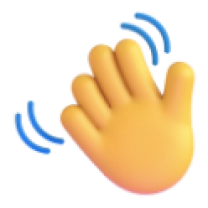
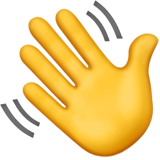
Add Hero section and update assets/styles
Introduced a new Hero component with associated CSS for the landing page. Updated image assets by replacing arrow.png with arrow_icon.png and modifying hand_icon.png. Enhanced Navbar link styles for better UI consistency. Integrated the Hero component into the Shop page.

diff --git a/Watch_Store/src/components/Navbaar/Navbar.jsx b/Watch_Store/src/components/Navbaar/Navbar.jsx
@@ -16,10 +16,13 @@ const Navbar = () => {
         </div>
 
         <ul className='nav-menu'>
-            <li onClick={() =>{setMenu("home")}}> <Link to="/">Home</Link>{menu==="home" ? <hr />:<></>}</li>
-            <li onClick={() =>{setMenu("mens")}}> <Link to="/mens">Men</Link> {menu==="mens" ? <hr />:<></>}</li>
-            <li onClick={() =>{setMenu("womens")}}><Link to="/women"> Women </Link>{menu==="womens" ? <hr />:<></>}</li>
-            <li onClick={() =>{setMenu("kids")}}> <Link to="/kids">Kids</Link> {menu==="kids" ? <hr />:<></>}</li>
+            <li onClick={() =>{setMenu("home")}}> <Link style={{textDecoration:'none', color:'#626262'}} to="/">Home</Link>{menu==="home" ? <hr />:<></>}</li>
+
+            <li onClick={() =>{setMenu("mens")}}> <Link style={{textDecoration:'none', color:'#626262'}} to="/mens">Men</Link> {menu==="mens" ? <hr />:<></>}</li>
+
+            <li onClick={() =>{setMenu("womens")}}><Link style={{textDecoration:'none', color:'#626262'}} to="/women"> Women </Link>{menu==="womens" ? <hr />:<></>}</li>
+
+            <li onClick={() =>{setMenu("kids")}}> <Link style={{textDecoration:'none', color:'#626262'}} to="/kids">Kids</Link> {menu==="kids" ? <hr />:<></>}</li>
         </ul>
 
         <div className="nav-login-cart">

diff --git a/Watch_Store/src/components/Hero/Hero.jsx b/Watch_Store/src/components/Hero/Hero.jsx
@@ -1,0 +1,33 @@
+import React from 'react'
+import './Hero.css'
+import hand from "../../Assets/hand_icon.png"
+import arrow_icon from "../../Assets/arrow_icon.png"
+import hero_image from "../../Assets/hero_image.png"
+
+const Hero = () => {
+ return (
+    <div className='hero'>
+        <div className="hero-left">
+<h2>Best Deals !  Best Prices !</h2>
+       
+        <div className="hero-hand-icon">
+            <p>new</p>
+            <img src={hand} alt="" height="60px" />
+        </div>
+        
+        <p>collections</p>
+        <p>for everyone</p>
+        <div className="hero-latest-btn">
+            <div>Latest Collection</div>
+            <img src={arrow_icon} alt="" height="30px"/>
+        </div>
+        </div>
+        
+        <div className="hero-right">
+  <img src={hero_image} alt="" height="180px" />
+        </div>
+    </div>
+  )
+}
+
+export default Hero

diff --git a/Watch_Store/src/pages/Shop.jsx b/Watch_Store/src/pages/Shop.jsx
@@ -1,9 +1,10 @@
 import React from 'react'
+import Hero from '../components/Hero/Hero'
 
 const Shop = () => {
   return (
     <div>
-      
+      <Hero />
     </div>
   )
 }

diff --git a/Watch_Store/src/components/Hero/Hero.css b/Watch_Store/src/components/Hero/Hero.css
@@ -1,0 +1,6 @@
+.hero {
+    height: 100vh;
+    background: linear-gradient(180deg,#c0e7e7,#e1ffea22 60%);
+    display: flex;
+}
+
